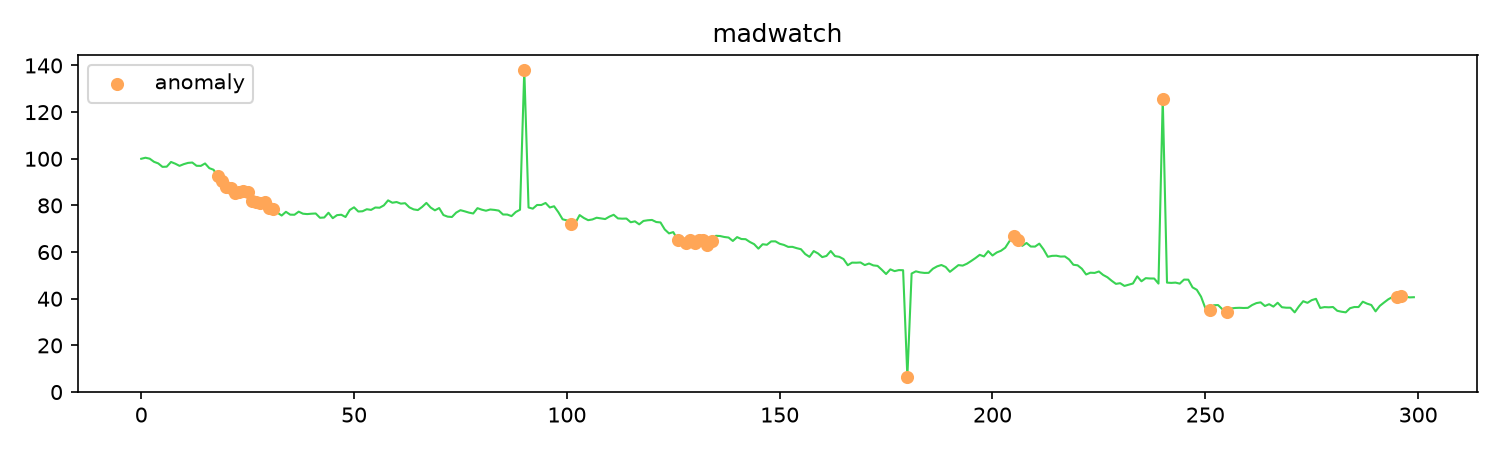
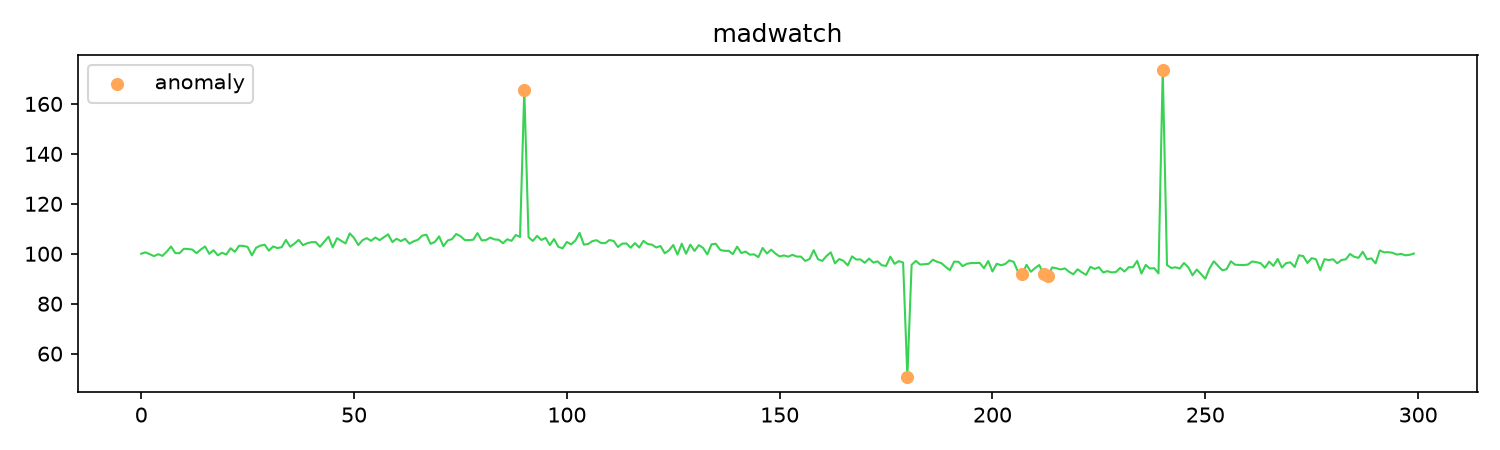
fix: stationary demo series so only injected spikes flag

diff --git a/examples/make_demo_plot.py b/examples/make_demo_plot.py
@@ -4,7 +4,7 @@ from madwatch import RollingDetector
 from madwatch.plot import save_plot
 
 rng = np.random.default_rng(7)
-values = 100 + np.cumsum(rng.normal(0, 1.5, 300))
+values = 100 + 6 * np.sin(np.linspace(0, 2 * np.pi, 300)) + rng.normal(0, 1.5, 300)
 values[90] += 60
 values[180] -= 45
 values[240] += 80
